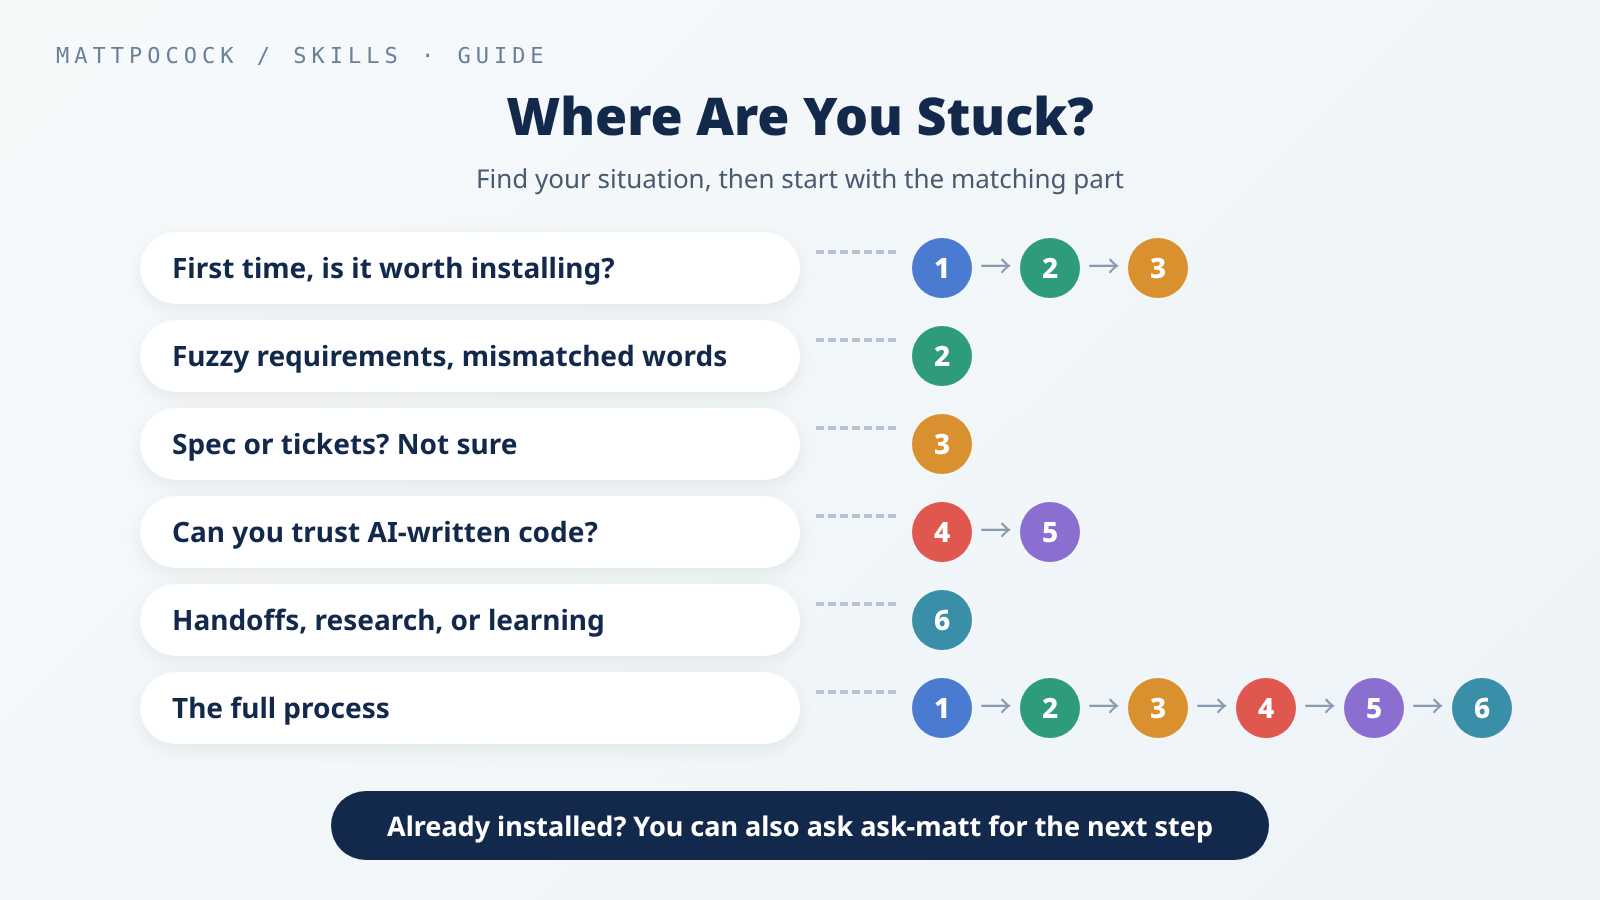
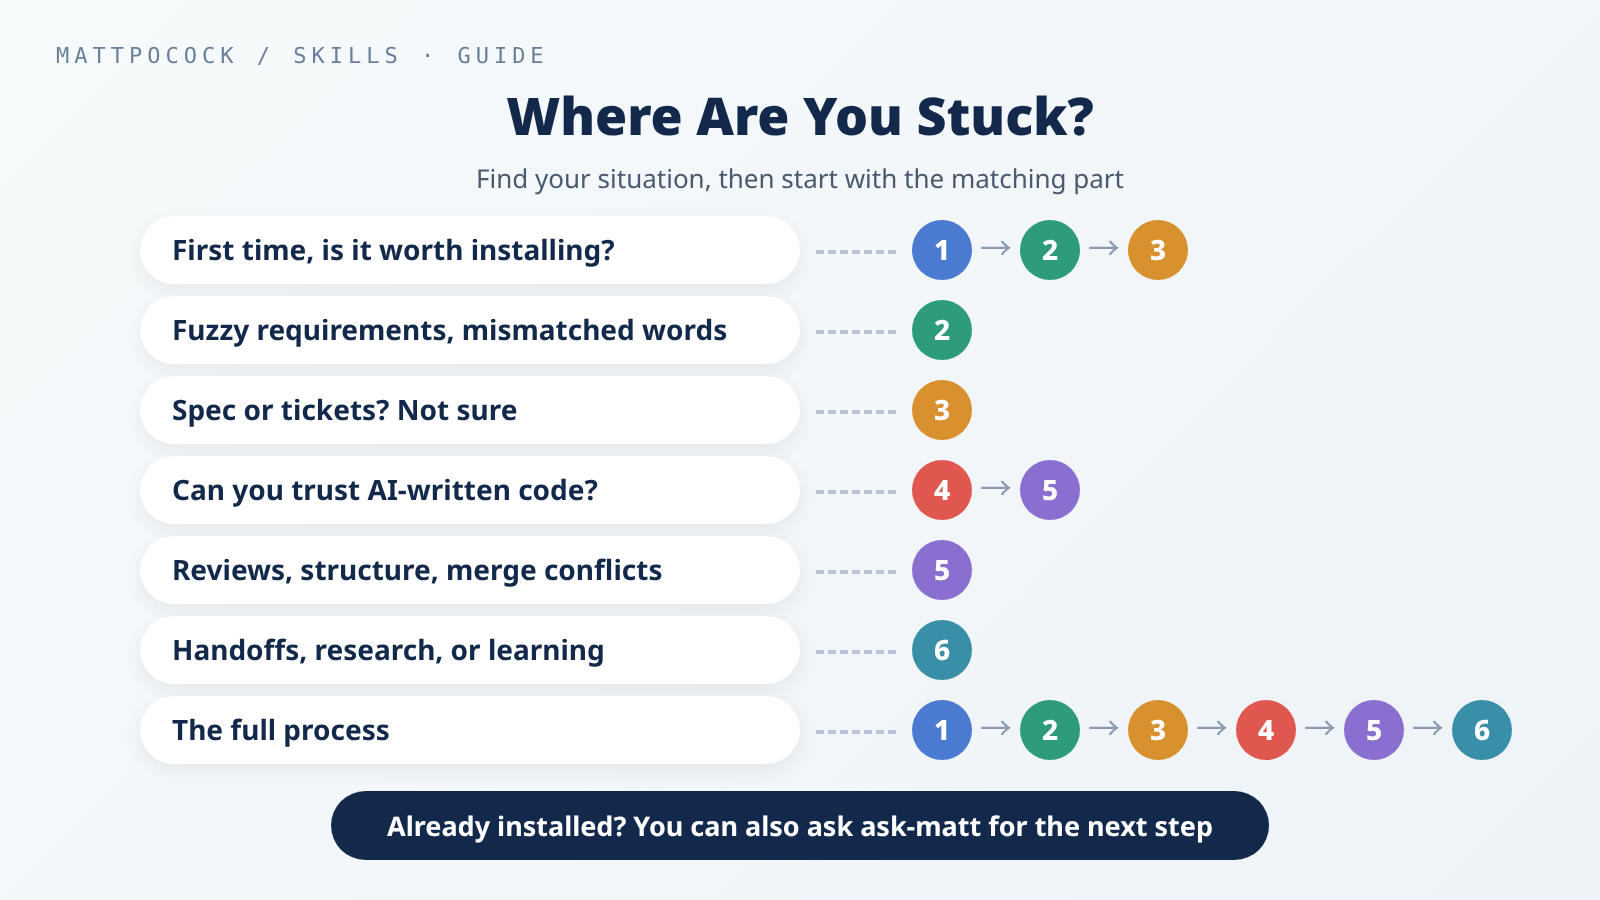
Series guide: address review v1 (R-1 to R-7) for JM-20261017-002

diff --git a/_posts/en/2026-10-17-mattpocock-skills-series-guide.md b/_posts/en/2026-10-17-mattpocock-skills-series-guide.md
@@ -10,7 +10,7 @@ image:
   alt: "The six parts follow the order of development and cover all 25 plugin skills; find the step you're stuck on and start there."
 ---
 
-Maybe someone mentioned `mattpocock/skills`, you opened the repo, and found a long list of skill names. Or maybe you landed on one part of this series from a search and want to see what comes before and after it. The series has six parts, and each covers one stretch of the development process. This guide skips the details and answers three questions: what this set of skills is, how the six parts fit together, and which part you should start with.
+Maybe someone mentioned `mattpocock/skills`, and when you opened the repo, you found a long list of skill names. Or maybe you landed on one part of this series from a search and want to see what comes before and after it. The series has six parts, and each covers one stretch of the development process. This guide skips the details and answers three questions: what this set of skills is, how the six parts fit together, and which part you should start with.
 
 > mattpocock/skills Series | Guide
 >
@@ -40,9 +40,9 @@ Going by the six parts, these skills fit best when:
 - Your team tracks and hands off work in an issue tracker, such as GitHub Issues.
 - You want the AI to follow fixed steps, with a person signing off at each key point.
 
-On the other hand, you may not need them when:
+On the other hand, you may not need the full process when:
 
-- You only want to make a small change in this one conversation. Just make it (Part 3).
+- The feature fits in one conversation. Once the requirements are clear, go straight to implementation and skip `to-spec` and `to-tickets` (Part 3).
 - You're talking through an idea that hasn't taken shape yet. One interview with `grill-me` is enough; there's no need to document every term (Part 2).
 - The task is a one-off outside any project folder. There's no need to set up a whole project just to use one skill (Part 1).
 
@@ -69,7 +69,7 @@ Faced with 25 skills, where do you begin? This part explains how to choose betwe
 
 ### Part 2: From Vague Requirements to Shared Terms
 
-The meeting notes use "member," "user," and "seat" interchangeably. How do you pin them down? This part covers `grill-me`, `grill-with-docs`, `grilling`, `domain-modeling`, and `wait-what`. The AI asks questions round by round in the order they depend on each other, agreed terms go into the project glossary, `CONTEXT.md`, and a few important decisions are written up as decision records.
+The meeting notes use "member," "user," and "seat" interchangeably. How do you pin them down? This part covers `grill-me`, `grill-with-docs`, `grilling`, `domain-modeling`, and `wait-what`. The AI asks questions round by round in the order they depend on each other. With `grill-with-docs`, agreed terms go into the project glossary, `CONTEXT.md`, and a few important decisions are written up as decision records.
 
 → [Part 2: From Vague Requirements to Shared Terms](/posts/mattpocock-skills-requirements-shared-language/)
 
@@ -93,7 +93,7 @@ Passing tests don't mean the structure isn't getting messier, or that the change
 
 ### Part 6: Skills for Research, Handoffs, and Learning
 
-Work outside coding can stall a project too: looking up official docs, handing work to the next person, setup steps only you can do because only you can log in, and learning a new topic. This part covers `research`, `handoff`, `wizard`, `teach`, and `writing-for-agents`, each with its own repeatable process.
+Work outside coding can stall a project too: looking up official docs, handing work to the next person, setup steps that need your own login, and learning a new topic. This part covers `research`, `handoff`, `wizard`, `teach`, and `writing-for-agents`, each with its own repeatable process.
 
 → [Part 6: Skills for Research, Handoffs, and Learning](/posts/mattpocock-skills-research-handoff/)
 
@@ -101,7 +101,7 @@ Work outside coding can stall a project too: looking up official docs, handing w
 
 You don't have to read from start to finish. Think about where you're stuck right now:
 
-![Reading paths: first-time users read Parts 1, 2, and 3; unclear requirements, Part 2; unsure whether to write a spec or tickets, Part 3; want to trust AI-written code, Parts 4 and 5; handoffs, research, or learning, Part 6; the full process, Parts 1 through 6](reading-paths.en.png){: width="800" height="450" }
+![Reading paths: first-time users read Parts 1, 2, and 3; unclear requirements, Part 2; unsure whether to write a spec or tickets, Part 3; want to trust AI-written code, Parts 4 and 5; reviews, structure, or merge conflicts, Part 5; handoffs, research, or learning, Part 6; the full process, Parts 1 through 6](reading-paths.en.png){: width="800" height="450" }
 _Find where you're stuck, then start with the matching part._
 
 | Your situation | Read |
